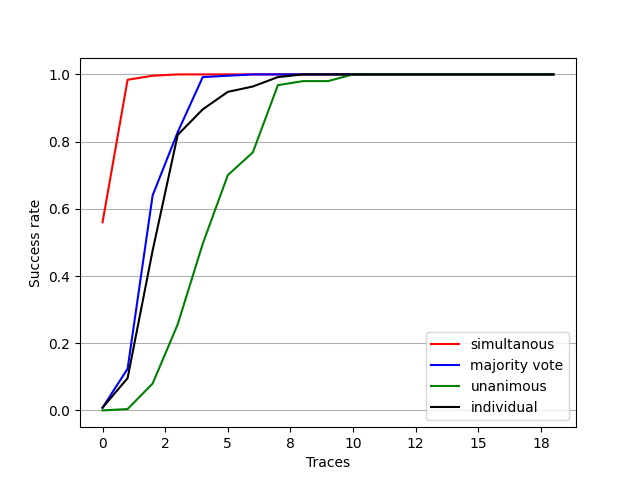
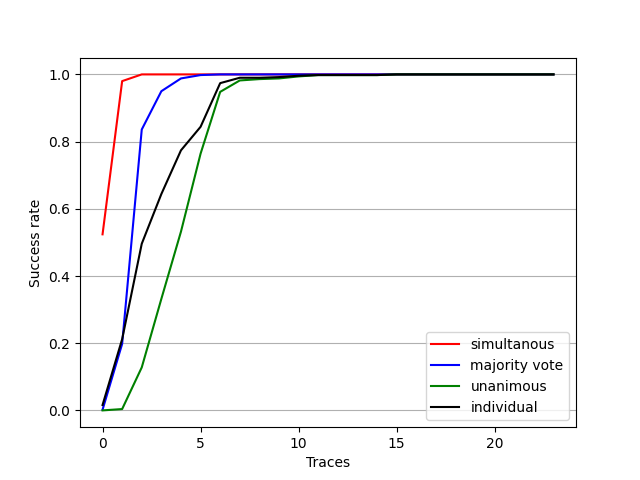
more data

diff --git a/run.py b/run.py
@@ -1,16 +1,6 @@
 import subprocess
 
-<<<<<<< HEAD
-subprocess.Popen("python3 tk1-recovery.py 20 0.3 250", shell=True)
-subprocess.Popen("python3 tk1-recovery.py 20 0.5 250", shell=True)
-subprocess.Popen("python3 tk1-recovery.py 20 0.7 250", shell=True)
-subprocess.Popen("python3 tk1-recovery.py 20 0.9 250", shell=True)
-=======
-subprocess.Popen("python3 tk1-recovery.py 25 0.3 200", shell=True)
-subprocess.Popen("python3 tk1-recovery.py 25 0.5 200", shell=True)
-subprocess.Popen("python3 tk1-recovery.py 25 0.7 200", shell=True)
-subprocess.Popen("python3 tk1-recovery.py 25 0.9 200", shell=True)
->>>>>>> b76c500ee65f3d8d32e77f767769efdeee8828ec
-
-
-
+subprocess.Popen("python3 tk1-recovery.py 25 0.3 500", shell=True)
+subprocess.Popen("python3 tk1-recovery.py 25 0.5 500", shell=True)
+subprocess.Popen("python3 tk1-recovery.py 25 0.7 500", shell=True)
+subprocess.Popen("python3 tk1-recovery.py 25 0.9 500", shell=True)

diff --git a/run_2.py b/run_2.py
@@ -5,7 +5,7 @@ std=arange(0.1, 1.5, 0.05)
 # 0.1  0.15 0.2  0.25 0.3  0.35 0.4  0.45 0.5  0.55 0.6  0.65 0.7  0.75
 # 0.8  0.85 0.9  0.95 1.   1.05 1.1  1.15 1.2  1.25 1.3  1.35 1.4  1.45]
 print(std)
-number_of_experiments=150
+number_of_experiments=250
 alfa=0.1
 sucess_rate=float(1-alfa)
 for s in std:
